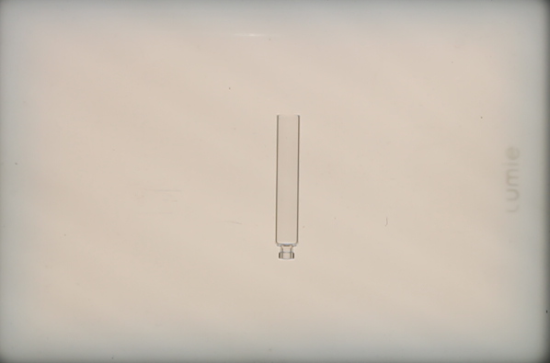
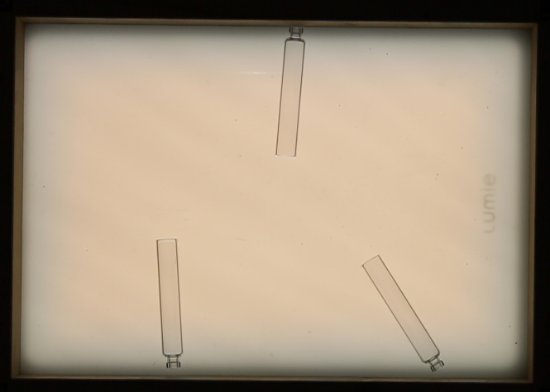
Redid preprocessing chain

diff --git a/GlassSegmentV1/PreprocessingLib.py b/GlassSegmentV1/PreprocessingLib.py
@@ -10,31 +10,17 @@ def PrepImg(img, corners):
     # * Unsharp mask (Size (3,3), amount 1, thresh. .131) -> ...
     # * Laplacian edge (delta = 5) -> Cvt. to UByte -> ...
     # * Threshold @ 35
-    #img_cropped = cb.markerCrop(img, corners)
     img_cropped = img[155:550, 304:902]
-    #img_cropped = img[corners[0, 1]:corners[2, 1], corners[0, 0]:corners[1, 0]]
-    #img_cropped = img
-    #!cv2.imshow("Cropped image", img_cropped)
+    #img_cropped = img[corners[0, 1] + 35:corners[2, 1] - 20, corners[0, 0] + 28:corners[1, 0] - 20]
+    cv2.imshow("Cropped image", img_cropped)
     cv2.waitKey(5)
     img_screensized = ResizeToFit(img_cropped, H= 403, W = 550)
-    cv2.imwrite("Test1.png", img_screensized)
-    cv2.waitKey(10)
     img_gray = cv2.cvtColor(img_screensized, cv2.COLOR_BGR2GRAY)
-    img_stretched = cv2.equalizeHist(img_gray)
-    #cv2.imshow("eqhist", img_stretched)
-    #cv2.waitKey(0)
-    img_blur = cv2.GaussianBlur(img_stretched, (3,3), 7)
-    #cv2.imshow("blur", img_blur)
-    #cv2.waitKey(0)
-    img_sharpen = unsharp_mask(img_blur, kernel_size = (5,5), amount = 1, threshold = 0.131)
-    #cv2.imshow("sharpen", img_sharpen)
-    #cv2.waitKey(0)
+    img_blur = cv2.GaussianBlur(img_gray, (3,3), 7)
+    img_sharpen = unsharp_mask(img_blur, kernel_size = (3,3), amount = 1, threshold = 0.131)
     img_edges = cv2.Laplacian(img_sharpen, ddepth = cv2.CV_8U, delta = 5)
     img_edges = img_as_ubyte(img_edges)
-    #cv2.imwrite("testsharpen.png", img_sharpen)
-    #cv2.imshow("edge", img_edges)
-    #cv2.waitKey(0)
-    img_binary = cv2.threshold(img_edges, 30, maxval = 255, type = cv2.THRESH_BINARY)
+    img_binary = cv2.threshold(img_edges, 12, maxval = 255, type = cv2.THRESH_BINARY)
     img_binary = img_binary[1]
 
     return img_binary

diff --git a/GlassSegmentV1/LineSearchLib.py b/GlassSegmentV1/LineSearchLib.py
@@ -322,6 +322,18 @@ def HoughLinesSearch(img, houghLength=40, houghDist=5):
 
     #If-statement drawing lines on the copy, if any lines are found.
     if linesP is not None:
+        index = 0
+        idx = []
+        for cnt in range(0, len(linesP)):
+            p1 = linesP[cnt,0,0], linesP[cnt,0,1] #x, y start
+            p2 = linesP[cnt,0,2], linesP[cnt,0,3] #x, y end
+            length = math.hypot(p1[0] - p2[0], p1[1] - p2[1])
+            if length > 140:
+                idx.append(index)
+            index+=1
+        linesP = np.delete(linesP, idx, axis=0)
+
+
         sortedLines,is_nan = SortLines(linesP)
         LineGrouping = LinesGrouping(sortedLines)
         glassSides = LineMerge(LineGrouping,is_nan)

diff --git a/GlassSegmentV1/GlassSegmentV1.py b/GlassSegmentV1/GlassSegmentV1.py
@@ -5,6 +5,7 @@ import math
 sys.path.append("./images")
 from cv2 import aruco
 
+
 import LineSearchLib as ls
 import PreprocessingLib as prep
 import RobotLib as rl
@@ -64,8 +65,8 @@ while True:
         if not ret or img.shape != (720, 1280, 3):
             # TODO Speed up robot
             # TODO Test special cases
-            img = cv2.imread('./final_images/final_setup_0.png')
-            #img = cv2.imread('./tmp/im1.png')
+            img = cv2.imread('./final_images/final_setup_4.png')
+            #img = cv2.imread('./tmp/im4.png')
             offlineFlag = True
             cam.release()
         print("Press key to start, ESC to exit")
